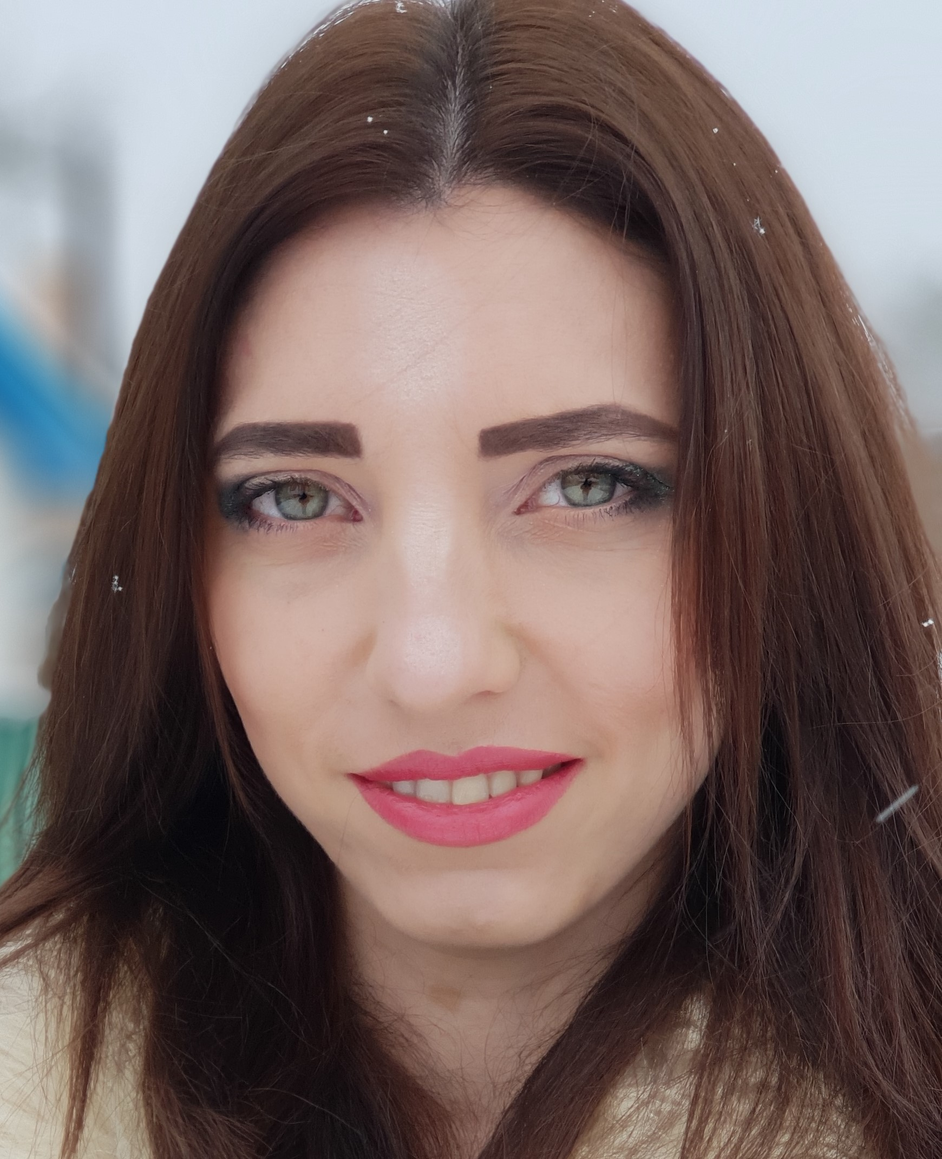
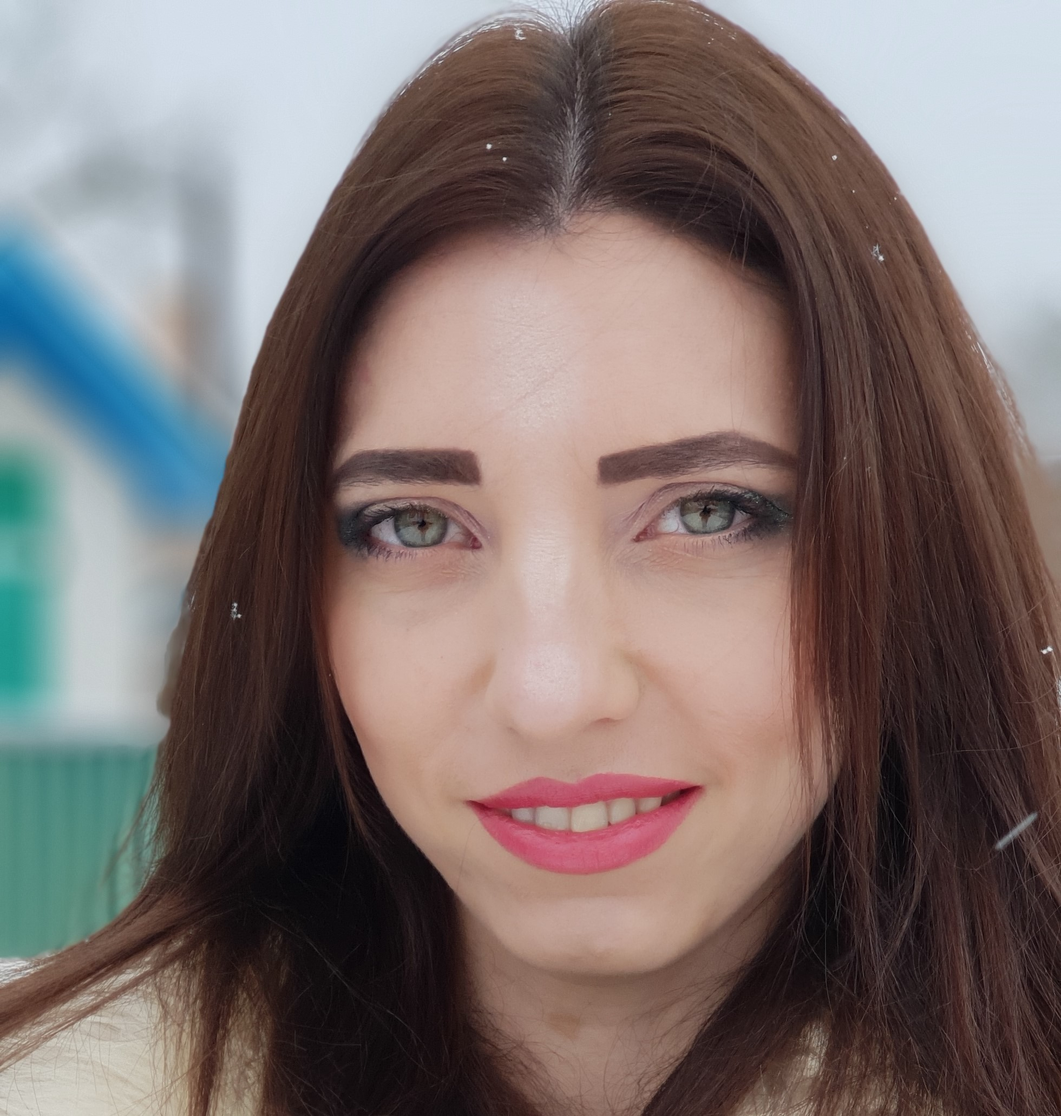
Added hw_23.01_variant2

diff --git a/23.01.19/hw_23.01_variant2.html b/23.01.19/hw_23.01_variant2.html
@@ -1,0 +1,27 @@
+<!DOCTYPE html>
+<html>
+<head>
+    <title>Personal card</title>
+    <meta charset="UTF-8">
+    <link rel="stylesheet" href="style.css">
+</head>
+<body>
+    <div class="card">
+        <div class="name">
+            <h2>Yulia Goryk</h2>
+        </div>
+        <div class="photo">
+            <img src="photo.jpg" alt="This is a business card photo" title="This is a business card photo">
+        </div>
+        <div class="phone">
+            <span class="phoneTitle">Телефон: </span>
+            <span class="phoneNumber">+380971722125</span>
+        </div>
+        <div class="email">
+            <span class="emailTitle">Email: </span>
+            <span class="emailNumber">gorykyulia@gmail.com</span>
+        </div>
+    </div>
+</body>
+
+</html>
